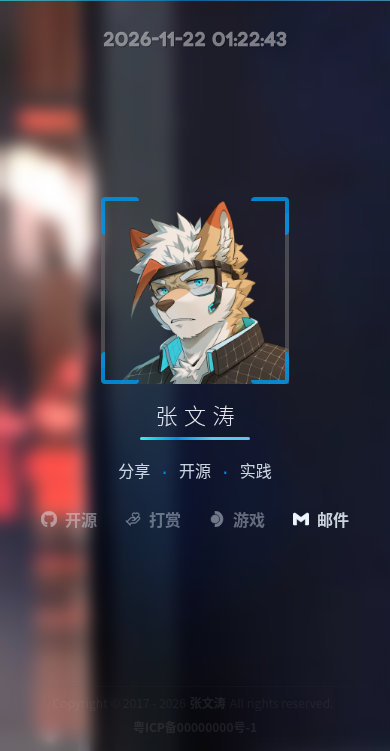
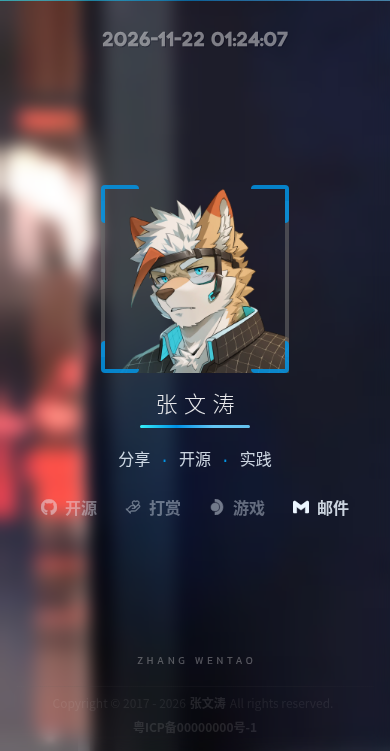
feat: update workspace

diff --git a/src/features/home/components/footer.tsx b/src/features/home/components/footer.tsx
@@ -16,6 +16,24 @@ type IFooterProps = BasicsProps;
 export const Footer: React.FC<IFooterProps> = ({ className, style }) => {
   return (
     <div className={cn('futi-footer flex h-16 shrink-0 items-center gap-4 pl-6 max-sm:h-auto max-sm:min-h-16 max-sm:w-full max-sm:flex-col max-sm:items-center max-sm:gap-3 max-sm:pt-6 max-sm:pb-4 max-sm:pl-0', className)} style={style}>
+      <Tooltip>
+        <TooltipTrigger asChild>
+          <m.a
+            href="/"
+            className={cn('futi-center font-kanit -mr-[0.38em] cursor-pointer text-[10px] tracking-[0.38em] text-white/30 uppercase transition-colors select-none hover:text-white/60', className)}
+            initial={{ opacity: 0 }}
+            animate={{ opacity: 1, transition: { delay: 1 } }}
+            transition={{ duration: 0.2 }}
+          >
+            Zhang Wentao
+          </m.a>
+        </TooltipTrigger>
+        <TooltipContent sideOffset={16}>返回首页</TooltipContent>
+      </Tooltip>
+
+      <m.div className="max-sm:!hidden" initial={{ opacity: 0 }} animate={{ opacity: 1, transition: { delay: 1.1 } }} transition={{ duration: 0.2 }}>
+        <Separator orientation="vertical" className="!h-8 bg-white/20" />
+      </m.div>
       <m.div className="max-sm:w-full max-sm:px-[clamp(0.75rem,4vw,1.5rem)]" initial={{ opacity: 0 }} animate={{ opacity: 1, transition: { delay: 1.2 } }} transition={{ duration: 0.2 }}>
         <Separator className="futi-footer-line mb-0.5 h-[3px] rounded bg-transparent max-sm:my-2" />
         <div className="futi-footer-text flex gap-1 space-x-1 text-xs select-none max-sm:w-full max-sm:flex-col max-sm:items-center max-sm:gap-2 max-sm:pb-0 max-sm:text-center [&_a]:cursor-pointer [&_a]:font-bold [&_a]:text-[color:var(--futi-c-footer-link)] [&_p]:text-[color:var(--futi-c-footer)]">
